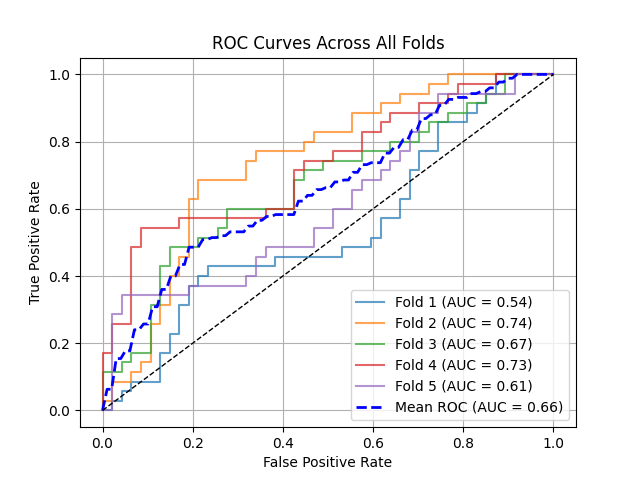
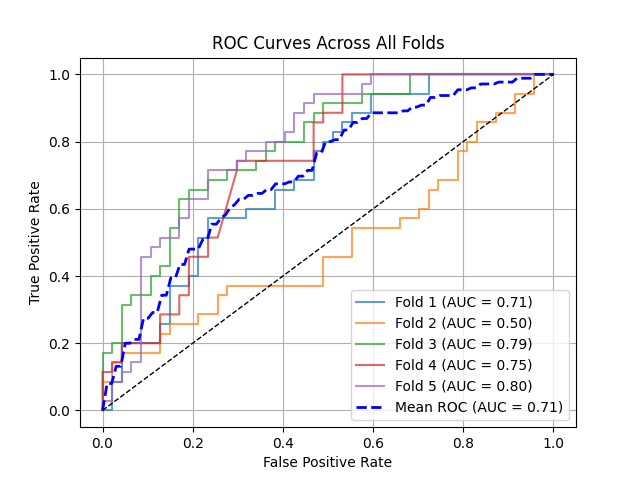
shift grid brightcontrast

diff --git a/dataset_washu2.py b/dataset_washu2.py
@@ -85,7 +85,7 @@ train_transform = A.Compose([
     #A.ElasticTransform(alpha = 1, sigma = 50, p=0.8),
     A.GridDistortion(distort_limit=(-0.1,0.1), p=0.5),
 	# #A.GaussNoise(var_limit=(0.2, 0.44), p=1),
-    A.RandomBrightnessContrast(brightness_limit=(-0.01, 0.1), contrast_limit=(-0.05, 0.05), p=0.5),
+    A.RandomBrightnessContrast(brightness_limit=(0, 0.15), contrast_limit=(0, 0.05), p=0.5),
     # #A.CLAHE(clip_limit=.5, tile_grid_size=(8, 8), p=0.5),
     # A.Downscale(scale_range=(0.8,0.99), p=0.5),
 	
